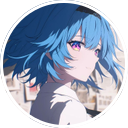
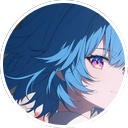
fix(ui): 提升导航头像清晰度 (#65)

diff --git a/web/tests/e2e/brand-mark.spec.ts b/web/tests/e2e/brand-mark.spec.ts
@@ -89,3 +89,31 @@ test('Xiaoduo avatar source is high resolution and square', async ({
   expect(dimensions.width).toBeGreaterThanOrEqual(512)
   expect(dimensions.height).toBeGreaterThanOrEqual(512)
 })
+
+test('brand portrait loads enough pixels for a crisp circle', async ({
+  page,
+}) => {
+  await page.goto('/library')
+
+  const image = page.locator('.library-brand .brand-mark-icon img')
+  await image.evaluate(async (element) => {
+    const imageElement = element as HTMLImageElement
+    if (imageElement.complete) return
+    await new Promise<void>((resolve) => {
+      imageElement.addEventListener('load', () => resolve(), { once: true })
+      imageElement.addEventListener('error', () => resolve(), { once: true })
+    })
+  })
+  const metrics = await image.evaluate((element) => {
+    const imageElement = element as HTMLImageElement
+    return {
+      complete: imageElement.complete,
+      naturalWidth: imageElement.naturalWidth,
+      transform: getComputedStyle(imageElement).transform,
+    }
+  })
+
+  expect(metrics.complete).toBe(true)
+  expect(metrics.naturalWidth).toBeGreaterThanOrEqual(96)
+  expect(metrics.transform).toBe('none')
+})

diff --git a/web/src/components/brand-mark.tsx b/web/src/components/brand-mark.tsx
@@ -22,9 +22,10 @@ export function BrandMark({
         <Image
           src="/xiaoduo-mark.jpg"
           alt=""
-          width={40}
-          height={40}
-          sizes="36px"
+          width={192}
+          height={192}
+          sizes="128px"
+          quality={100}
           draggable={false}
         />
       </span>

diff --git a/web/src/app/globals.css b/web/src/app/globals.css
@@ -624,8 +624,7 @@ select:focus {
   width: 100%;
   height: 100%;
   object-fit: cover;
-  object-position: 50% 46%;
-  transform: scale(1.04);
+  object-position: 50% 50%;
 }
 
 .brand-mark.is-compact {
